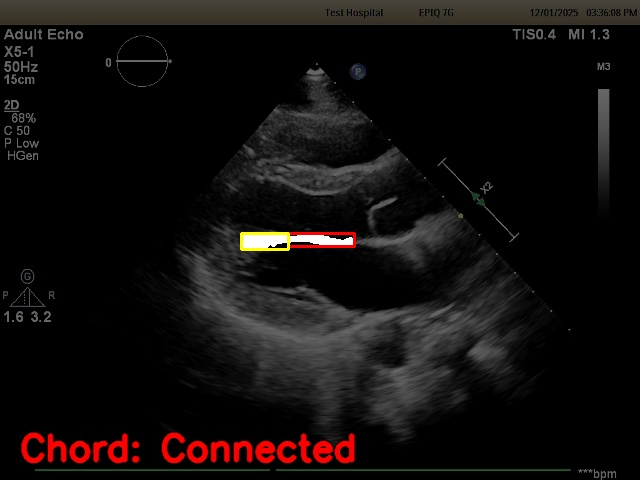
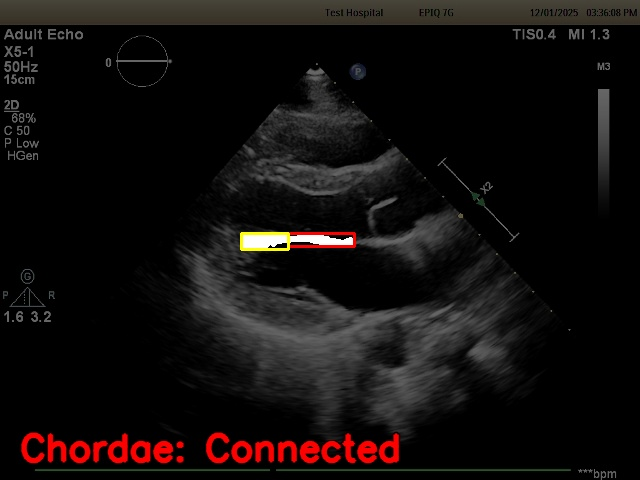
fix typos

Changed region(s): [[0.1875, 0.875, 0.625, 0.9688]]

diff --git a/content/other.ts b/content/other.ts
@@ -23,7 +23,7 @@ export const otherProjectsData = {
         "以下に、受賞時の様子と制作物の外観を掲載します。",
       ],
       mediaGap: "20px",
-      githubUrl: "https://github.com/michihara213",
+      githubUrl: "https://github.com/michihara213/OtherProject/tree/main/MechatroLab",
       media: [
         { 
           kind: "image", 
@@ -56,7 +56,7 @@ export const otherProjectsData = {
         "以下に実際のプレイ動画を掲載します。",
       ],
       mediaGap: "0px", 
-      githubUrl: "https://github.com/michihara213",
+      githubUrl: "https://github.com/michihara213/OtherProject/tree/main/WesternGame",
       media: [
         {
           kind: "video",
@@ -73,11 +73,11 @@ export const otherProjectsData = {
       description: [
         "所属する研究室の学部3年生（11名）が4チームに分かれ、オリジナルのロボットを製作して競い合うロボコンに取り組んでいます。",
         "競技は、攻撃側と防御側で各1機のロボットを製作し、制限時間内にピンポン玉をフィールド上のゴールへ投げ入れて得点を競う形式です。",
-        "私はチーム内で攻撃用ロボットの設計・製作を担当しました。\nAutodesk Inventor Professionalを用いて3Dモデルを作成し、干渉チェックやサイズ制限に注意しながらカタパルト機構の実装を行いました。",
+        "私はチーム内で攻撃用ロボットの設計・製作を担当しています。\nAutodesk Inventor Professionalを用いて3Dモデルを作成し、干渉チェックやサイズ制限に注意しながらカタパルト機構の実装を行いました。",
         "以下に、設計時のCADモデルと、実際に動作しているロボットの様子を掲載します。",
       ],
       mediaGap: "20px",
-      githubUrl: "https://github.com/michihara213",
+      githubUrl: "https://github.com/michihara213/OtherProject/tree/main/Robocon",
       media: [
         {
           kind: "image",
@@ -107,7 +107,7 @@ export const otherProjectsData = {
         "Below are photos of the award ceremony and the device.",
       ],
       mediaGap: "20px",
-      githubUrl: "https://github.com/michihara213",
+      githubUrl: "https://github.com/michihara213/OtherProject/tree/main/MechatroLab",
       media: [
         { 
           kind: "image", 
@@ -140,7 +140,7 @@ export const otherProjectsData = {
         "Below is a gameplay video.",
       ],
       mediaGap: "0px", 
-      githubUrl: "https://github.com/michihara213",
+      githubUrl: "https://github.com/michihara213/OtherProject/tree/main/WesternGame",
       media: [
         {
           kind: "video",
@@ -157,11 +157,11 @@ export const otherProjectsData = {
       description: [
         "The 3rd-year students in my laboratory (11 members) are divided into 4 teams to build original robots and compete in a Robocon.",
         "The competition involves making one robot each for offense and defense, and competing for scores by throwing ping-pong balls into a goal on the field within a time limit.",
-        "I was in charge of designing and manufacturing the attack robot within my team.\nI used Autodesk Inventor Professional to create 3D models and implemented a catapult mechanism while checking for interference and size restrictions.",
+        "I am in charge of designing and manufacturing the attack robot within my team.\nI used Autodesk Inventor Professional to create 3D models and implemented a catapult mechanism while checking for interference and size restrictions.",
         "Below are the CAD model during design and the actual robot in action.",
       ],
       mediaGap: "20px",
-      githubUrl: "https://github.com/michihara213",
+      githubUrl: "https://github.com/michihara213/OtherProject/tree/main/Robocon",
       media: [
         {
           kind: "image",

diff --git a/content/research.ts b/content/research.ts
@@ -241,7 +241,7 @@ export const researchData: Record<"ja" | "en", ResearchPageContent> = {
             ["AV_closed", "850", "0.892", "0.887", "0.923", "0.623"],
             ["Average", "2318", "0.799", "0.764", "0.799", "0.438"],
           ],
-          caption: "混同行列に基づく精度評価結果"
+          caption: "テストデータに対する精度評価結果"
         },
       },
       // ▼▼▼ 前回の修正: mv-chord -> mv-chordae ▼▼▼
@@ -252,7 +252,7 @@ export const researchData: Record<"ja" | "en", ResearchPageContent> = {
         tags: ["Python", "OpenCV", "YOLOv8"],
         description: [
           "僧帽弁の先端が、腱索や乳頭筋と繋がっていないかを評価するためのベンチマークです。",
-          "本ベンチマークに対しては、腱索・乳頭筋のうち腱索に限定し、YOLOv8による物体検出と、OpenCVによる画像処理を組み合わせた自動判定の手法を検討しました。",
+          "本ベンチマークに対しては、腱索・乳頭筋のうち腱索に限定し、学習済みのYOLOv8による物体検出と、OpenCVによる画像処理を組み合わせた自動判定の手法を検討しました。",
           "具体的な処理フローは以下の通りです。",
           {
             title: "1. 解析領域の動的定義：",
@@ -511,7 +511,7 @@ export const researchData: Record<"ja" | "en", ResearchPageContent> = {
             ["AV_closed", "850", "0.892", "0.887", "0.923", "0.623"],
             ["Average", "2318", "0.799", "0.764", "0.799", "0.438"],
           ],
-          caption: "Accuracy evaluation results based on the confusion matrix"
+          caption: "Accuracy evaluation results on test data"
         },
       },
       // ▼▼▼ 前回の修正: mv-chord -> mv-chordae ▼▼▼
@@ -522,7 +522,7 @@ export const researchData: Record<"ja" | "en", ResearchPageContent> = {
         tags: ["Python", "OpenCV", "YOLOv8"],
         description: [
           "Benchmark to evaluate if the tip of the Mitral Valve (MV) is not connected to chordae tendineae or papillary muscles.",
-          "I focused on chordae tendineae and examined an automatic determination method combining object detection by YOLOv8 and image processing by OpenCV.",
+          "I focused on chordae tendineae and examined an automatic determination method combining object detection by pre-trained YOLOv8 and image processing by OpenCV.",
           "The processing flow is as follows:",
           {
             title: "1. Dynamic Definition of Analysis Area:",
